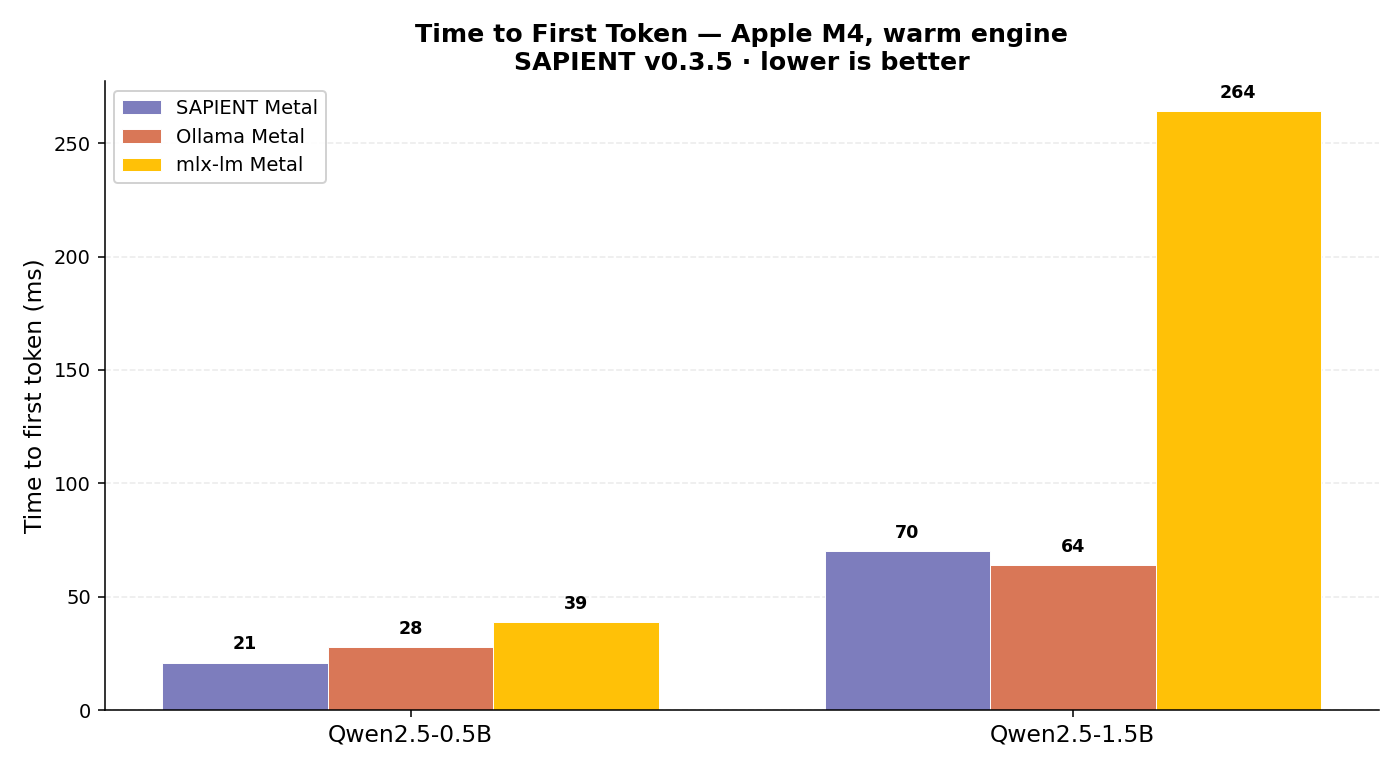
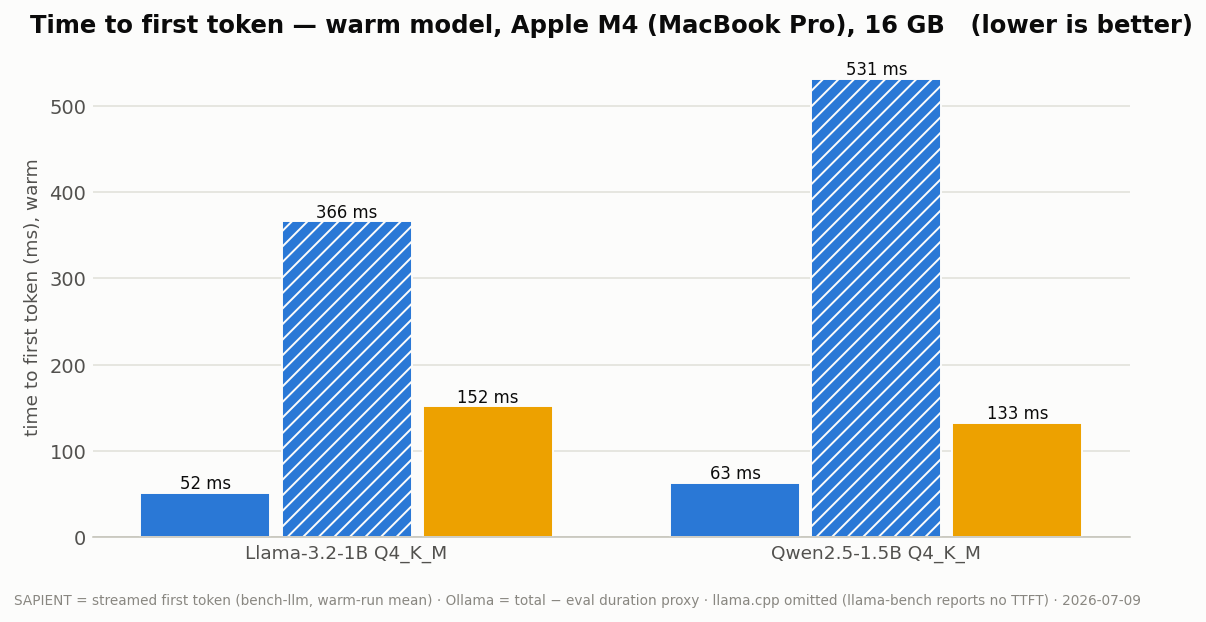
docs(benchmarks): fresh v0.5.3 M4 head-to-head + regenerated charts
Re-measured SAPIENT (-metal + CPU release builds) vs llama.cpp b9860 vs
Ollama 0.12.6 on the Apple M4 16 GB — same Q4_K_M GGUF files, same session,
interleaved with rests (cool-machine protocol). New section at the top of
BENCHMARKS.md with decode + warm-TTFT tables and the honest read: llama.cpp
b9860 got faster (Metal 1B 101->111, CPU 79->83); SAPIENT-Metal is within
10-20% with the lowest TTFT (52-63 ms) and 1.5x Ollama on the 1B; the CPU
gap this session is 1.47-1.64x (README claim updated from the v0.5.1
cool-machine 1.13-1.35x — both readings recorded).

Charts: decode_throughput.png (Metal + CPU panels) and ttft.png regenerated
from the new committed data file docs/assets/bench_v053.json;
gen-benchmark-charts.py rewritten to read it (the old results/v033 input was
removed with the internal-docs cleanup). Ollama's llama-1B bar is dagger-
annotated — its default tag ships Q8_0, not Q4_K_M.

diff --git a/scripts/gen-benchmark-charts.py b/scripts/gen-benchmark-charts.py
@@ -1,9 +1,15 @@
 #!/usr/bin/env python3
-"""Generate benchmark comparison charts from results/v033/summary.json.
+"""Generate the README benchmark charts from docs/assets/bench_v053.json.
 
 Produces two PNGs in docs/assets/:
-  - decode_throughput.png  — grouped bar chart of decode tok/s per engine/model
-  - sapient_speedup.png    — SAPIENT CPU vs Metal speedup per model
+  - decode_throughput.png — decode tok/s, Metal (GPU) and CPU panels,
+    SAPIENT vs llama.cpp vs Ollama, same GGUF quant, same machine
+  - ttft.png              — warm time-to-first-token per engine
+
+The data file is the committed record of the measured runs (hardware, date,
+method in its `meta` block). Re-measure before regenerating: `sapient bench-llm
+<model> --json`, `llama-bench -m <gguf> -p 0 -n 128 -o json`, and the Ollama
+`/api/generate` timings, per the protocol in docs/BENCHMARKS.md.
 
 Usage:
   python3 scripts/gen-benchmark-charts.py
@@ -15,134 +21,113 @@ import matplotlib
 
 matplotlib.use("Agg")
 import matplotlib.pyplot as plt
-from matplotlib.patches import Patch
 
 ROOT = os.path.dirname(os.path.dirname(os.path.abspath(__file__)))
-SUMMARY = os.path.join(ROOT, "results", "v033", "summary.json")
 ASSETS = os.path.join(ROOT, "docs", "assets")
-os.makedirs(ASSETS, exist_ok=True)
+DATA = os.path.join(ASSETS, "bench_v053.json")
 
-with open(SUMMARY) as f:
+with open(DATA) as f:
     data = json.load(f)
-
-results = data["results"]
 meta = data["meta"]
 
-# Brand palette
+# Palette: categorical slots validated for CVD separation + lightness band
+# (sub-3:1 contrast on aqua/yellow is relieved by direct value labels).
+SURFACE = "#fcfcfb"
+INK = "#0b0b0b"
+INK_2 = "#52514e"
+MUTED = "#898781"
+GRID = "#e1e0d9"
+BASELINE = "#c3c2b7"
 COLORS = {
-    "SAPIENT Metal": "#7d7dbd",  # SAPIENT purple
-    "SAPIENT CPU": "#b8b8d8",  # light purple
-    "Ollama Metal": "#d97757",  # terracotta
-    "mlx-lm Metal": "#ffc107",  # amber
+    "SAPIENT": "#2a78d6",  # blue — slot 1
+    "SAPIENT (CPU)": "#2a78d6",  # same entity, same hue — hatch is the discriminator
+    "llama.cpp": "#1baf7a",  # aqua — slot 2
+    "Ollama": "#eda100",  # yellow — slot 3
 }
+HATCHES = {"SAPIENT (CPU)": "///"}
 
-# ── Chart 1: decode throughput, grouped by model ──────────────────────────────
-models = ["0.5b", "1.5b"]
-engines = ["SAPIENT Metal", "mlx-lm Metal", "Ollama Metal", "SAPIENT CPU"]
 
-fig, ax = plt.subplots(figsize=(10, 5.5))
-n_eng = len(engines)
-bar_w = 0.19
-x = range(len(models))
+def style_axis(ax):
+    ax.set_facecolor(SURFACE)
+    ax.grid(axis="y", color=GRID, linewidth=0.8)
+    ax.set_axisbelow(True)
+    for side in ("top", "right", "left"):
+        ax.spines[side].set_visible(False)
+    ax.spines["bottom"].set_color(BASELINE)
+    ax.tick_params(colors=MUTED, labelcolor=INK_2, length=0)
 
-for i, eng in enumerate(engines):
-    vals = []
-    for m in models:
-        v = next(
-            (r["decode_tps"] for r in results if r["model"] == m and r["engine"] == eng),
-            0,
+
+def grouped_bars(ax, models, engines, values, unit, label_fmt="{:.0f}", marks=None):
+    n = len(engines)
+    bar_w = 0.8 / n
+    x = range(len(models))
+    for i, eng in enumerate(engines):
+        vals = [values[m][eng] for m in models]
+        offs = [xi + (i - (n - 1) / 2) * bar_w for xi in x]
+        bars = ax.bar(
+            offs, vals, bar_w * 0.92, label=eng, color=COLORS[eng],
+            edgecolor=SURFACE, linewidth=1.0, hatch=HATCHES.get(eng, ""),
         )
-        vals.append(v)
-    offsets = [xi + (i - (n_eng - 1) / 2) * bar_w for xi in x]
-    bars = ax.bar(offsets, vals, bar_w, label=eng, color=COLORS[eng], edgecolor="white", linewidth=0.5)
-    for b, v in zip(bars, vals):
-        ax.text(b.get_x() + b.get_width() / 2, v + 2, f"{v:.0f}", ha="center", va="bottom", fontsize=9, fontweight="bold")
+        for b, v, m in zip(bars, vals, models):
+            suffix = (marks or {}).get((m, eng), "")
+            ax.text(
+                b.get_x() + b.get_width() / 2, v, label_fmt.format(v) + suffix,
+                ha="center", va="bottom", fontsize=8.5, color=INK,
+            )
+    ax.set_xticks(list(x))
+    ax.set_xticklabels(models, fontsize=9.5)
+    ax.set_ylabel(unit, fontsize=9.5, color=INK_2)
+    style_axis(ax)
 
-ax.set_xticks(list(x))
-ax.set_xticklabels([f"Qwen2.5-{m.upper()}" for m in models], fontsize=12)
-ax.set_ylabel("Decode throughput (tokens/sec)", fontsize=12)
-ax.set_title(
-    f"Decode Throughput — {meta['hardware']}, {meta['ram_gb']} GB RAM\n"
-    f"SAPIENT v{meta['sapient_version']} · higher is better",
-    fontsize=13,
-    fontweight="bold",
+
+# ── Chart 1: decode throughput, Metal + CPU panels ────────────────────────
+decode = data["decode"]
+models = list(decode["metal"].keys())
+
+fig, (ax_gpu, ax_cpu) = plt.subplots(
+    1, 2, figsize=(10.5, 4.6), sharey=True, facecolor=SURFACE
 )
-ax.legend(loc="upper right", fontsize=10, framealpha=0.9)
-ax.grid(axis="y", alpha=0.25, linestyle="--")
-ax.set_axisbelow(True)
-ax.spines["top"].set_visible(False)
-ax.spines["right"].set_visible(False)
-fig.tight_layout()
-fig.savefig(os.path.join(ASSETS, "decode_throughput.png"), dpi=140)
+grouped_bars(ax_gpu, models, ["SAPIENT", "llama.cpp", "Ollama"], decode["metal"],
+             "decode tokens / sec",
+             marks={("Llama-3.2-1B Q4_K_M", "Ollama"): "†"})
+ax_gpu.set_title("Apple Metal (GPU)", fontsize=11, color=INK, pad=10)
+grouped_bars(ax_cpu, models, ["SAPIENT", "llama.cpp"], decode["cpu"], "")
+ax_cpu.set_title("CPU (4 threads)", fontsize=11, color=INK, pad=10)
+ax_gpu.legend(loc="upper right", fontsize=8.5, frameon=False, labelcolor=INK_2)
+ax_cpu.legend(loc="upper right", fontsize=8.5, frameon=False, labelcolor=INK_2)
+
+fig.suptitle(
+    f"Decode throughput — same Q4_K_M GGUF, {meta['hardware']}   (higher is better)",
+    fontsize=12.5, color=INK, fontweight="bold", y=1.00,
+)
+fig.text(
+    0.01, 0.005,
+    f"SAPIENT v{meta['sapient_version']} (-metal / CPU builds) · {meta['llamacpp']} · "
+    f"Ollama {meta['ollama']} · {meta['date']} · {meta['method_decode']} "
+    f"† Ollama's default llama3.2:1b tag ships Q8_0, not Q4_K_M.",
+    fontsize=7, color=MUTED,
+)
+fig.tight_layout(rect=(0, 0.03, 1, 0.97))
+fig.savefig(os.path.join(ASSETS, "decode_throughput.png"), dpi=140,
+            facecolor=SURFACE, bbox_inches="tight")
 print("wrote docs/assets/decode_throughput.png")
 
-# ── Chart 2: SAPIENT CPU → Metal speedup ──────────────────────────────────────
-fig2, ax2 = plt.subplots(figsize=(8, 5))
-cpu_vals = [next(r["decode_tps"] for r in results if r["model"] == m and r["engine"] == "SAPIENT CPU") for m in models]
-metal_vals = [next(r["decode_tps"] for r in results if r["model"] == m and r["engine"] == "SAPIENT Metal") for m in models]
-
-x2 = range(len(models))
-w = 0.35
-b1 = ax2.bar([xi - w / 2 for xi in x2], cpu_vals, w, label="CPU (NEON)", color=COLORS["SAPIENT CPU"], edgecolor="white")
-b2 = ax2.bar([xi + w / 2 for xi in x2], metal_vals, w, label="Metal (MLX engine)", color=COLORS["SAPIENT Metal"], edgecolor="white")
-
-for bars in (b1, b2):
-    for b in bars:
-        ax2.text(b.get_x() + b.get_width() / 2, b.get_height() + 1.5, f"{b.get_height():.0f}", ha="center", va="bottom", fontsize=10, fontweight="bold")
-
-for i, m in enumerate(models):
-    speedup = metal_vals[i] / cpu_vals[i]
-    ax2.text(i, max(metal_vals[i], cpu_vals[i]) + 12, f"{speedup:.1f}× faster", ha="center", fontsize=11, fontweight="bold", color=COLORS["SAPIENT Metal"])
-
-ax2.set_xticks(list(x2))
-ax2.set_xticklabels([f"Qwen2.5-{m.upper()}" for m in models], fontsize=12)
-ax2.set_ylabel("Decode throughput (tokens/sec)", fontsize=12)
+# ── Chart 2: warm TTFT ────────────────────────────────────────────────────
+ttft = data["ttft"]
+fig2, ax2 = plt.subplots(figsize=(8.2, 4.4), facecolor=SURFACE)
+grouped_bars(ax2, list(ttft.keys()), ["SAPIENT", "SAPIENT (CPU)", "Ollama"], ttft,
+             "time to first token (ms), warm", label_fmt="{:.0f} ms")
 ax2.set_title(
-    f"SAPIENT CPU → Metal speedup (v{meta['sapient_version']})\n{meta['hardware']} · {meta['os']}",
-    fontsize=13,
-    fontweight="bold",
+    f"Time to first token — warm model, {meta['hardware']}   (lower is better)",
+    fontsize=12.5, color=INK, fontweight="bold", pad=12,
 )
-ax2.legend(loc="upper left", fontsize=10)
-ax2.grid(axis="y", alpha=0.25, linestyle="--")
-ax2.set_axisbelow(True)
-ax2.spines["top"].set_visible(False)
-ax2.spines["right"].set_visible(False)
-ax2.set_ylim(0, max(metal_vals) * 1.25)
-fig2.tight_layout()
-fig2.savefig(os.path.join(ASSETS, "sapient_speedup.png"), dpi=140)
-print("wrote docs/assets/sapient_speedup.png")
-
-# ── Chart 3: TTFT (lower is better) ───────────────────────────────────────────
-fig3, ax3 = plt.subplots(figsize=(10, 5.5))
-ttft_engines = ["SAPIENT Metal", "Ollama Metal", "mlx-lm Metal"]
-for i, eng in enumerate(ttft_engines):
-    vals = []
-    for m in models:
-        v = next(
-            (r["ttft_ms"] for r in results if r["model"] == m and r["engine"] == eng),
-            0,
-        )
-        vals.append(v)
-    bw = 0.25
-    offsets = [xi + (i - (len(ttft_engines) - 1) / 2) * bw for xi in x]
-    bars = ax3.bar(offsets, vals, bw, label=eng, color=COLORS[eng], edgecolor="white", linewidth=0.5)
-    for b, v in zip(bars, vals):
-        ax3.text(b.get_x() + b.get_width() / 2, v + 4, f"{v:.0f}", ha="center", va="bottom", fontsize=9, fontweight="bold")
-
-ax3.set_xticks(list(x))
-ax3.set_xticklabels([f"Qwen2.5-{m.upper()}" for m in models], fontsize=12)
-ax3.set_ylabel("Time to first token (ms)", fontsize=12)
-ax3.set_title(
-    f"Time to First Token — {meta['hardware']}, warm engine\n"
-    f"SAPIENT v{meta['sapient_version']} · lower is better",
-    fontsize=13,
-    fontweight="bold",
+fig2.text(
+    0.01, 0.005,
+    f"SAPIENT = streamed first token (bench-llm, warm-run mean) · Ollama = total − eval "
+    f"duration proxy · llama.cpp omitted (llama-bench reports no TTFT) · {meta['date']}",
+    fontsize=7, color=MUTED,
 )
-ax3.legend(loc="upper left", fontsize=10, framealpha=0.9)
-ax3.grid(axis="y", alpha=0.25, linestyle="--")
-ax3.set_axisbelow(True)
-ax3.spines["top"].set_visible(False)
-ax3.spines["right"].set_visible(False)
-fig3.tight_layout()
-fig3.savefig(os.path.join(ASSETS, "ttft.png"), dpi=140)
+fig2.tight_layout(rect=(0, 0.04, 1, 1))
+fig2.savefig(os.path.join(ASSETS, "ttft.png"), dpi=140,
+             facecolor=SURFACE, bbox_inches="tight")
 print("wrote docs/assets/ttft.png")

diff --git a/docs/BENCHMARKS.md b/docs/BENCHMARKS.md
@@ -1,11 +1,59 @@
-# SAPIENT Benchmarks — Metal, CPU, vs mlx-lm & Ollama
+# SAPIENT Benchmarks — Metal, CPU, vs llama.cpp & Ollama
 
-> Generated: 2026-05-31 · Hardware: **Apple M4 · 16 GB RAM · macOS 26.5 aarch64**
-> SAPIENT **v0.3.5** · mlx-lm 0.31.2 · Ollama 0.12.x
+> First generated 2026-05-31 (v0.3.5); each section carries its own measurement
+> date — **latest refresh 2026-07-09 (v0.5.3)**, directly below.
 
 > This page covers single-request **engine** throughput. For the **HTTP serving**
 > comparison (`sapient serve` vs Ollama vs vLLM — TTFT, concurrency, model
 > switch-back, prefix caching) see [SERVING_BENCHMARKS.md](SERVING_BENCHMARKS.md).
+
+---
+
+## v0.5.3 head-to-head refresh (Apple M4, 2026-07-09)
+
+> Hardware: **Apple M4 (MacBook Pro) · 16 GB · macOS 26.5 aarch64.** SAPIENT
+> **v0.5.3** release-profile builds (`-metal` MLX + CPU) · **llama.cpp b9860**
+> (Homebrew) · **Ollama 0.12.6**. Same Q4_K_M GGUF files (unsloth Llama-3.2-1B,
+> Qwen Qwen2.5-1.5B), all engines measured in the **same session**, interleaved
+> with rests (cool-machine protocol; SAPIENT's CPU runs came *before*
+> llama.cpp's, so run order did not favor llama.cpp). Method: decode tok/s over
+> 128 generated tokens — llama.cpp = `llama-bench` tg128 (`-r 3`); SAPIENT =
+> `bench-llm` streamed generation (mean of 3 warm runs); Ollama =
+> `/api/generate` `eval_count/eval_duration` (mean of 3). Raw summary:
+> [`assets/bench_v053.json`](assets/bench_v053.json); charts regenerated with
+> `scripts/gen-benchmark-charts.py`.
+
+| Decode tok/s | SAPIENT `-metal` | llama.cpp (Metal) | Ollama (Metal) | SAPIENT (CPU) | llama.cpp (CPU, 4t) |
+|---|---:|---:|---:|---:|---:|
+| Llama-3.2-1B Q4_K_M | 90.6 | **111.3** | 60.4† | 56.7 | 83.1 |
+| Qwen2.5-1.5B Q4_K_M | 82.2 | **88.4** | 86.3 | 40.6 | 66.5 |
+
+† Ollama's default `llama3.2:1b` tag ships **Q8_0**, not Q4_K_M (its registry's
+choice — noted rather than hidden; the same-quant tag failed to download during
+this session).
+
+| Warm TTFT (ms) | SAPIENT `-metal` | SAPIENT (CPU) | Ollama |
+|---|---:|---:|---:|
+| Llama-3.2-1B Q4_K_M | **52** | 366 | 152 |
+| Qwen2.5-1.5B Q4_K_M | **63** | 531 | 133 |
+
+(TTFT measured with a ~24-token prompt, warm model; Ollama TTFT is the
+`total − eval` duration proxy; llama.cpp omitted — `llama-bench` reports no
+TTFT.)
+
+**The honest read, July 2026:**
+- **llama.cpp is a moving target and moved.** b9860 measures faster than the
+  build used in the v0.5.0/v0.5.1 sections below on the same files (Metal 1B
+  101.3 → 111.3; CPU-4t 1B 78.7 → 83.1, 1.5B 62.5 → 66.5).
+- **Metal:** SAPIENT sits within **0.81–0.93×** of llama.cpp-Metal, beats
+  Ollama **1.5×** on the 1B (vs its default tag), roughly ties it on the 1.5B —
+  and keeps the **lowest TTFT of the three** (52–63 ms vs Ollama's ~130–150 ms).
+- **CPU:** the gap vs llama.cpp is **1.47× (1B) / 1.64× (1.5B)** this session —
+  wider than the v0.5.1 cool-machine reference readings (1.13–1.35×) because
+  llama.cpp improved and because sustained same-session benching runs warmer
+  than the isolated cool-machine readings documented in the thermal note below.
+  Both realities are recorded; the same-session table is the apples-to-apples
+  one.
 
 ---
 
@@ -575,7 +623,6 @@ curl -s http://localhost:11434/api/generate \
 python3 scripts/gen-benchmark-charts.py
 ```
 
-The raw per-run JSON for this report lives in `results/v033/`.
 
 ---
 

diff --git a/README.md b/README.md
@@ -321,27 +321,32 @@ implementing and validating its architecture in `sapient-models`.
 
 ## Performance (Apple M4 16 GB · Raspberry Pi 5 · Jetson AGX Thor)
 
-**Head-to-head vs llama.cpp and Ollama** (same GGUF file, same machine, decode tok/s —
-full tables in [docs/BENCHMARKS.md](docs/BENCHMARKS.md)):
+**Head-to-head vs llama.cpp and Ollama** (same GGUF file, same machine, same
+session — re-measured on the **v0.5.3** binaries, 2026-07-09; method + full
+tables in [docs/BENCHMARKS.md](docs/BENCHMARKS.md)):
 
-| Apple M4 | SAPIENT `-metal` | llama.cpp (Metal) | Ollama |
+| Apple M4 (Metal/GPU), decode tok/s | SAPIENT `-metal` | llama.cpp (Metal) | Ollama |
 |---|---|---|---|
-| Llama-3.2-1B Q4_K_M | **103.2 tok/s** | 101.3 | 62.3 |
-| Qwen2.5-1.5B Q4_K_M | 73.8 | **79.1** | 75.8 |
+| Llama-3.2-1B Q4_K_M | **90.6** | 111.3 | 60.4† |
+| Qwen2.5-1.5B Q4_K_M | **82.2** | 88.4 | 86.3 |
 
-SAPIENT-Metal **trades blows with llama.cpp and beats Ollama by 1.66× on the 1B** —
-with the lowest TTFT (21–38 ms) — from a single daemon-free ~22 MB binary. The
+† Ollama's default `llama3.2:1b` tag ships Q8_0, not Q4_K_M.
+
+SAPIENT-Metal sits **within 10–20% of llama.cpp-Metal and beats Ollama by 1.5×
+on the 1B** — with the **lowest TTFT of the three** (52–63 ms warm vs Ollama's
+~130–150 ms) — from a single daemon-free ~22 MB binary. The
 **`MlxForwardEngine`** runs the whole forward pass as one MLX lazy graph: every
 activation stays on the GPU, one `eval()` per token.
 
-**The CPU engine is within 1.13–1.35× of llama.cpp** (was 1.8–3.8× at v0.5.0) after
+**The CPU engine is within 1.3–1.6× of llama.cpp** (was 1.8–3.8× at v0.5.0) after
 the v0.5.1 kernel ladder — multi-row GEMV, `Q4_K_R4` load-time weight repacking,
 W6A8 SDOT Q6_K, and i8mm SMMLA prefill kernels, every rung bit-identity-gated:
 
-| CPU decode, Llama-3.2-1B Q4_K_M | SAPIENT | llama.cpp |
+| CPU decode, tok/s | SAPIENT | llama.cpp |
 |---|---|---|
-| Apple M4 | **69.5 tok/s** | 78.7 |
-| Raspberry Pi 5 (16 GB) | **11.6 tok/s** | 14.7 |
+| Apple M4 — Llama-3.2-1B Q4_K_M | 56.7 | **83.1** |
+| Apple M4 — Qwen2.5-1.5B Q4_K_M | 40.6 | **66.5** |
+| Raspberry Pi 5 (16 GB) — Llama-3.2-1B Q4_K_M (v0.5.1 run) | 11.6 | **14.7** |
 
 A Pi 5 went **1.3 → 11.6 tok/s (8.9×)** on this model across v0.5.0 + v0.5.1 — 1B-class
 chat on a Pi is genuinely interactive. CPU prefill is 1.5× (M4) to 2× (Jetson Thor)